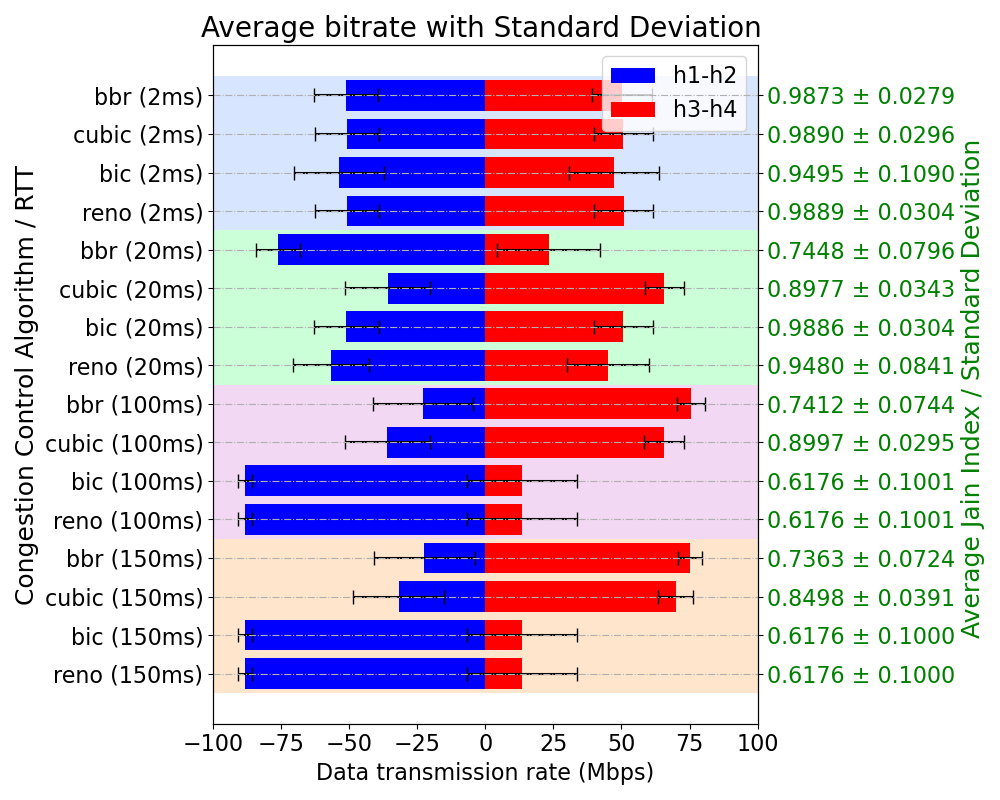
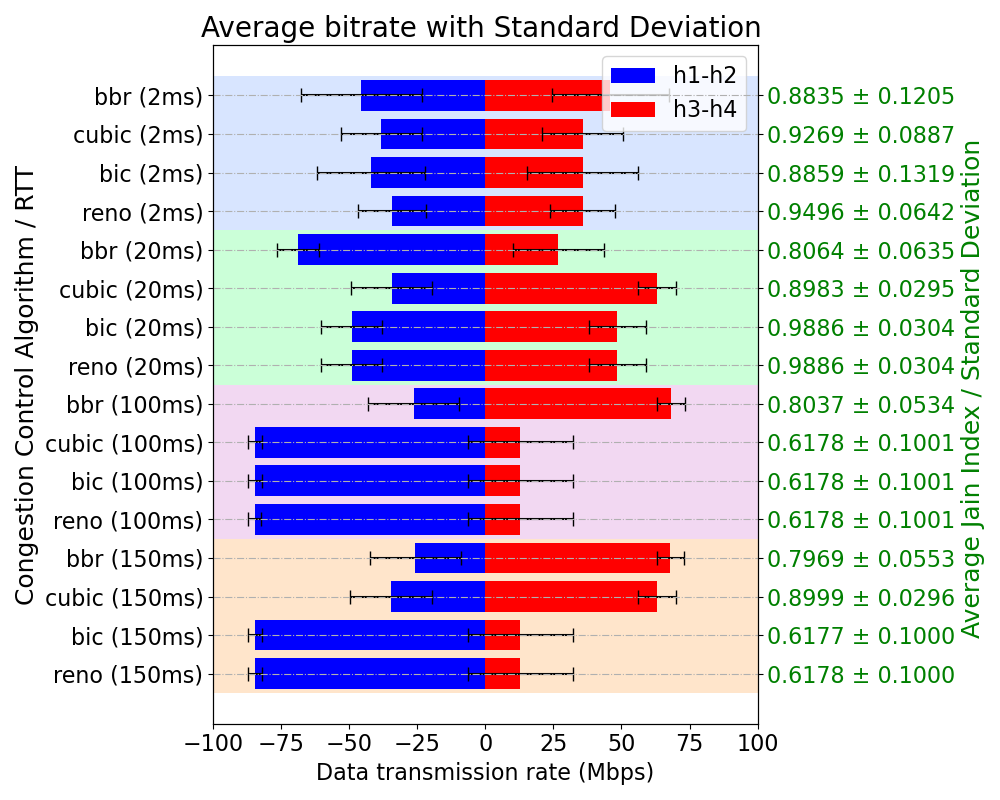
Network 01

diff --git a/topo.py b/topo.py
@@ -56,6 +56,32 @@ iperf_csv_header = ['time', 'src_addr', 'src_port', 'dst_addr' ,'dst_port', 'oth
 
 
 class DumbbellTopo(Topo):
+    """ Dumbbell topology class.
+
+        This class requires the use of TCLink class instead of the default Link class to create the links.
+
+        The topology is described in section 5.4 of:
+        https://www.nist.gov/sites/default/files/documents/itl/antd/P9-SP-500-282-Chapter5.pdf
+
+          s1------s2    s1 & s2 are backbone routers 1 & 2
+           |       |
+          s3      s4    s3 and s4 are access routers 1 & 2
+          /\      /\
+        h1  h3  h2  h4  h1 & h3 are source hosts 1 & 2, and h2 & h4 are receiver hosts 1 & 2
+
+        The hosts (h1..h4) can transmit/receive at 960Mbps (80pkts/ms). The links between the the hosts and the access
+        routers will have a bandwidth of 960Mbps, a delay of 0ms and a max queue size of 100% * bandwidth * delay.
+        The backbone routers (s1 & s2) can transmit/receive at 984Mbps (82pkts/ms). The link between the backbone
+        routers will have a bandwidth of 984Mbps and a max queue size of 100% * bandwidth * delay.
+        There are tests for 21, 81, and 162ms one-way propagation delay in the link between s1 and s2 which makes RTTs
+        of 42, 162 and 324ms.
+        The access routers (s3 & s4) can transmit/receive at 252Mbps (21pkts/ms). The links between the access routers
+        and the backbone routers will have a bandwidth of 250Mbps and a delay of 0ms.
+        The access routers have buffers or max queue size= 20% * bandwidth * delay. The links between the access
+        routers and the backbone routers will have a max queue size = 0.2 * bandwidth * delay, where the bandwidth is
+        252Mbps = 21 packets per ms for packets of 1500B size, and delay is the one-way propagation delay in ms.
+        For all calculations, we assume a packet size (MTU) of 1500Bytes.
+    """
 
     def build(self, delay=2):
         """ Create the topology by overriding the class parent's method.
@@ -63,12 +89,12 @@ class DumbbellTopo(Topo):
             :param  delay   One way propagation delay, delay = RTT / 2. Default is 2ms.
         """
         # The bandwidth (bw) is in Mbps, delay in milliseconds and queue size is in packets
-        br_params = dict(bw=200, delay='{0}ms'.format(delay), max_queue_size=82*delay,
+        br_params = dict(bw=192, delay='{0}ms'.format(delay), max_queue_size=16*delay,
                          use_htb=True)  # backbone router interface tc params
-        ar_params = dict(bw=100, delay='0ms', max_queue_size=(21*delay*20)/100,
+        ar_params = dict(bw=96, delay='0ms', max_queue_size=(8*delay*20)/100,
                          use_htb=True)  # access router intf tc params
         # TODO: remove queue size from hosts and try.
-        hi_params = dict(bw=960, delay='0ms', max_queue_size=80*delay, use_htb=True)  # host interface tc params
+        hi_params = dict(bw=180, delay='0ms', max_queue_size=15*delay, use_htb=True)  # host interface tc params
 
         # Create routers s1 to s4
         s1 = self.addSwitch('s1')
@@ -76,17 +102,45 @@ class DumbbellTopo(Topo):
         s3 = self.addSwitch('s3')
         s4 = self.addSwitch('s4')
 
+        # Optical network elements
+        params = {'transceivers': [('tx1',0*dBm,'C')],
+                  'monitor_mode': 'in'}
+        t1 = self.addSwitch('t1', cls=Terminal, **params)
+        t2 = self.addSwitch('t2', cls=Terminal, **params)
+	    # ADD ROADM as r1
+        r1 = self.addSwitch('r1', cls=ROADM)
+        r2 = self.addSwitch('r2', cls=ROADM)
 
 
 ###################################################
         # Link backbone routers (s1 & s2) together
-        self.addLink(s1, s2, cls=TCLink, **br_params)
-
+#        self.addLink(s1, s2, cls=TCLink, **br_params)
+        # Ethernet links
+        #self.addLink(t1,s1)
+        self.addLink(s1,t1)
+        #self.addLink(h1, t1, port2=1)
+        #self.addLink(h2,s2)
+        self.addLink(s2,t2)
+        
+        # WDM link
+        boost = ('boost', {'target_gain': 3.0*dB})
+        amp1 = ('amp1', {'target_gain': 25*.22*dB})
+        amp2 = ('amp2', {'target_gain': 40*.22*dB})
+        amp3 = ('amp3', {'target_gain': 50*.22*dB})
+#        spans = [5*km, amp1, 5*km, amp2]
+        spans = [5*km]
+        
+        self.addLink(r1, t1, cls=OpticalLink, port1=1, port2=2,
+                     boost1=boost, spans=spans)
+        self.addLink(r2, t2, cls=OpticalLink, port1=1, port2=2,
+                     boost1=boost, spans=spans)
+        self.addLink(r2, r1, cls=OpticalLink, port1=2, port2=2,
+                     boost1=boost, spans=spans, loss = 0)
         
 ###################################################
         # Link access routers (s3 & s4) to the backbone routers
         self.addLink(s1, s3, cls=TCLink, **ar_params)
-        self.addLink(s2, s4, cls=TCLink, **ar_params)
+        self.addLink(s2, s4, cls=TCLink, **br_params)
 
         # Create the hosts h1 to h4, and link them to access router 1
         h1 = self.addHost('h1')
@@ -108,6 +162,22 @@ class DumbbellTopo(Topo):
 #def draw_fairness_plot(time_h1, bw_h1, time_h3, bw_h3, alg, delay,Ganho_Amp):
 def draw_fairness_plot(time_h1, bw_h1, time_h3, bw_h3, alg, delay):
     """ Draw the fairness plot for the iperf client hosts.
+
+            |
+         bw |     /--\
+            |    /    \
+            |   /      ----------------
+            |  /       /
+            |--       /
+           -|--------|-----------------
+        h1-h2 start  h3-h4 start  time
+
+        :param  time_h1 List of time values for host h1.
+        :param  bw_h1   List of bandwidth values for host h1.
+        :param  time_h3 List of time values for host h3.
+        :param  bw_h3   List of bandwidth values for host h3.
+        :param  alg     TCP Congestion Control algorithm used in the test.
+        :param  delay   Delay used in the test.
     """
     print('*** Drawing the fairness plot...')
     plt.plot(time_h1, bw_h1, label='Source Host 1 (h1)')
@@ -181,6 +251,7 @@ def parse_iperf_data(alg, delay, host_addrs):
 
     # Use time's first value as time=0, and convert the bps to Mbps
     first_row = True
+#    with open('iperf_{0}_h1-h2_{1}ms_GAmp_{2}_dB.txt'.format(alg, delay, Ganho_Amp),'r+') as fcsv:    
     with open('iperf_{0}_h1-h2_{1}ms.txt'.format(alg, delay),'r+') as fcsv:
         r = csv.DictReader(fcsv, delimiter=',', fieldnames=iperf_csv_header)
         for row in r:
@@ -204,7 +275,7 @@ def parse_iperf_data(alg, delay, host_addrs):
     # a few seconds after the first cmd, and convert the bps to Mbps
     first_row = True
    
-
+#    with open('iperf_{0}_h3-h4_{1}ms_GAmp_{2}_dB.txt'.format(alg, delay, Ganho_Amp), 'r+') as fcsv:   
     with open('iperf_{0}_h3-h4_{1}ms.txt'.format(alg, delay), 'r+') as fcsv:
         r = csv.DictReader(fcsv, delimiter=',', fieldnames=iperf_csv_header)
         for row in r:
@@ -270,7 +341,14 @@ def tcp_tests(algs, delays, iperf_runtime, iperf_delayed_start):
             print('Host addrs: {0}'.format(host_addrs))
             
             
-    
+            restServer.start()
+            ################%%%%%%%%%%%%%%%%%%%%%%%%%#############3
+            os.system("./config-singlelink_r1r2.sh")
+            info(__doc__)
+            #test(net) if 'test' in argv else CLI(net)
+            restServer.stop()
+            #net.stop()
+        
 
 
             # Run iperf
@@ -292,6 +370,9 @@ def tcp_tests(algs, delays, iperf_runtime, iperf_delayed_start):
             # TODO: run iperfs without the -y C to see if we get errors setting the MSS. Use sudo?
             print("*** Starting iperf client h1...")
 
+#            popens[h1] = h1.popen('iperf -c {0} -p 5001 -i 1 -w 16m -M 1460 -N -Z {1} -t {2} -y C > \
+#                                   iperf_{1}_{3}_{4}ms_GAmp_{5}_dB.txt'
+#                                  .format(h2.IP(), alg, iperf_runtime, 'h1-h2', delay, Ganho_Amp), shell=True)
             popens[h1] = h1.popen('iperf -c {0} -p 5001 -i 1 -w 16m -M 1460 -N -Z {1} -t {2} -y C > \
                                    iperf_{1}_{3}_{4}ms.txt'
                                   .format(h2.IP(), alg, iperf_runtime, 'h1-h2', delay), shell=True)
@@ -301,6 +382,9 @@ def tcp_tests(algs, delays, iperf_runtime, iperf_delayed_start):
             sleep(iperf_delayed_start)
 
             print("*** Starting iperf client h3...")
+#            popens[h3] = h3.popen('iperf -c {0} -p 5001 -i 1 -w 16m -M 1460 -N -Z {1} -t {2} -y C > \
+#                                   iperf_{1}_{3}_{4}ms_GAmp_{5}_dB.txt'
+#                                  .format(h4.IP(), alg, iperf_runtime, 'h3-h4', delay, Ganho_Amp), shell=True)
             popens[h3] = h3.popen('iperf -c {0} -p 5001 -i 1 -w 16m -M 1460 -N -Z {1} -t {2} -y C > \
                                    iperf_{1}_{3}_{4}ms.txt'
                                   .format(h4.IP(), alg, iperf_runtime, 'h3-h4', delay), shell=True)
@@ -323,10 +407,11 @@ def tcp_tests(algs, delays, iperf_runtime, iperf_delayed_start):
             net.stop()
 
             print('*** Processing data...')
-
+#            data_fairness = parse_iperf_data(alg, delay, host_addrs, Ganho_Amp)
             data_fairness = parse_iperf_data(alg, delay, host_addrs)
 
-
+#            draw_fairness_plot(data_fairness['h1']['time'], data_fairness['h1']['Mbps'],
+#                               data_fairness['h3']['time'], data_fairness['h3']['Mbps'], alg, delay, Ganho_Amp)
             draw_fairness_plot(data_fairness['h1']['time'], data_fairness['h1']['Mbps'],
                                data_fairness['h3']['time'], data_fairness['h3']['Mbps'], alg, delay)
 
@@ -343,7 +428,7 @@ if __name__ == '__main__':
                         help='Time to wait before starting the second iperf client.')
     parser.add_argument('-l', '--log-level', default='info', help='Verbosity level of the logger. Uses `info` by default.')
     parser.add_argument('-t', '--run-test', action='store_true', help='Run the dumbbell topology test.')
-
+#    parser.add_argument('-ga', '--Ganho_Amp', type=int, default=10, help='Parâmetro de ganho do Amplificador Óptico.')
     args = parser.parse_args()
 
     if args.log_level:
@@ -358,7 +443,10 @@ if __name__ == '__main__':
         # Run tests
         #tcp_reno_test(['reno', 'cubic'], [21, 81, 162], 1000, 250)
         tcp_tests(args.algorithms, args.delays, args.iperf_runtime, args.iperf_delayed_start)
-
+#        for i in range(5,args.Ganho_Amp,5):
+#            Ganho_Amp = i
+#            tcp_tests(args.algorithms, args.delays, args.iperf_runtime, args.iperf_delayed_start)
+        #change_topo(args.Ganho_Amp)
 
 
 
